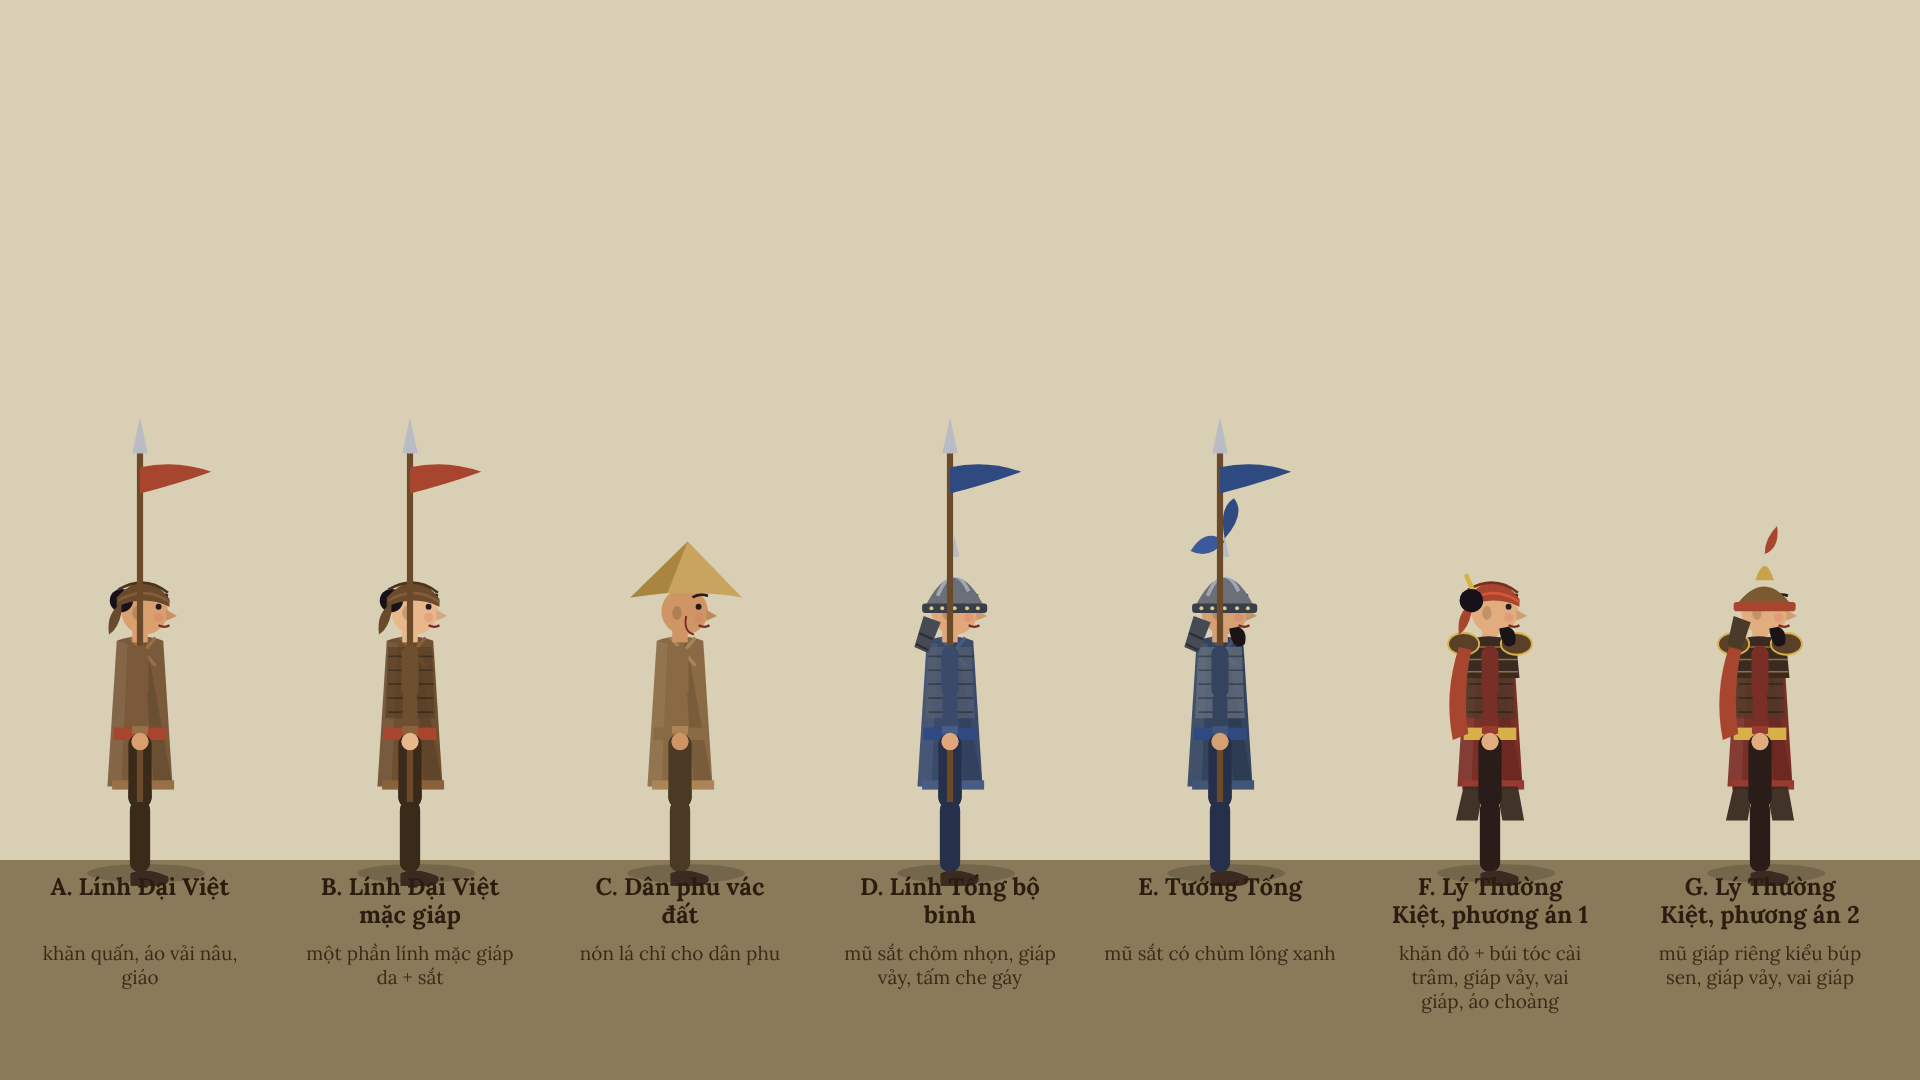
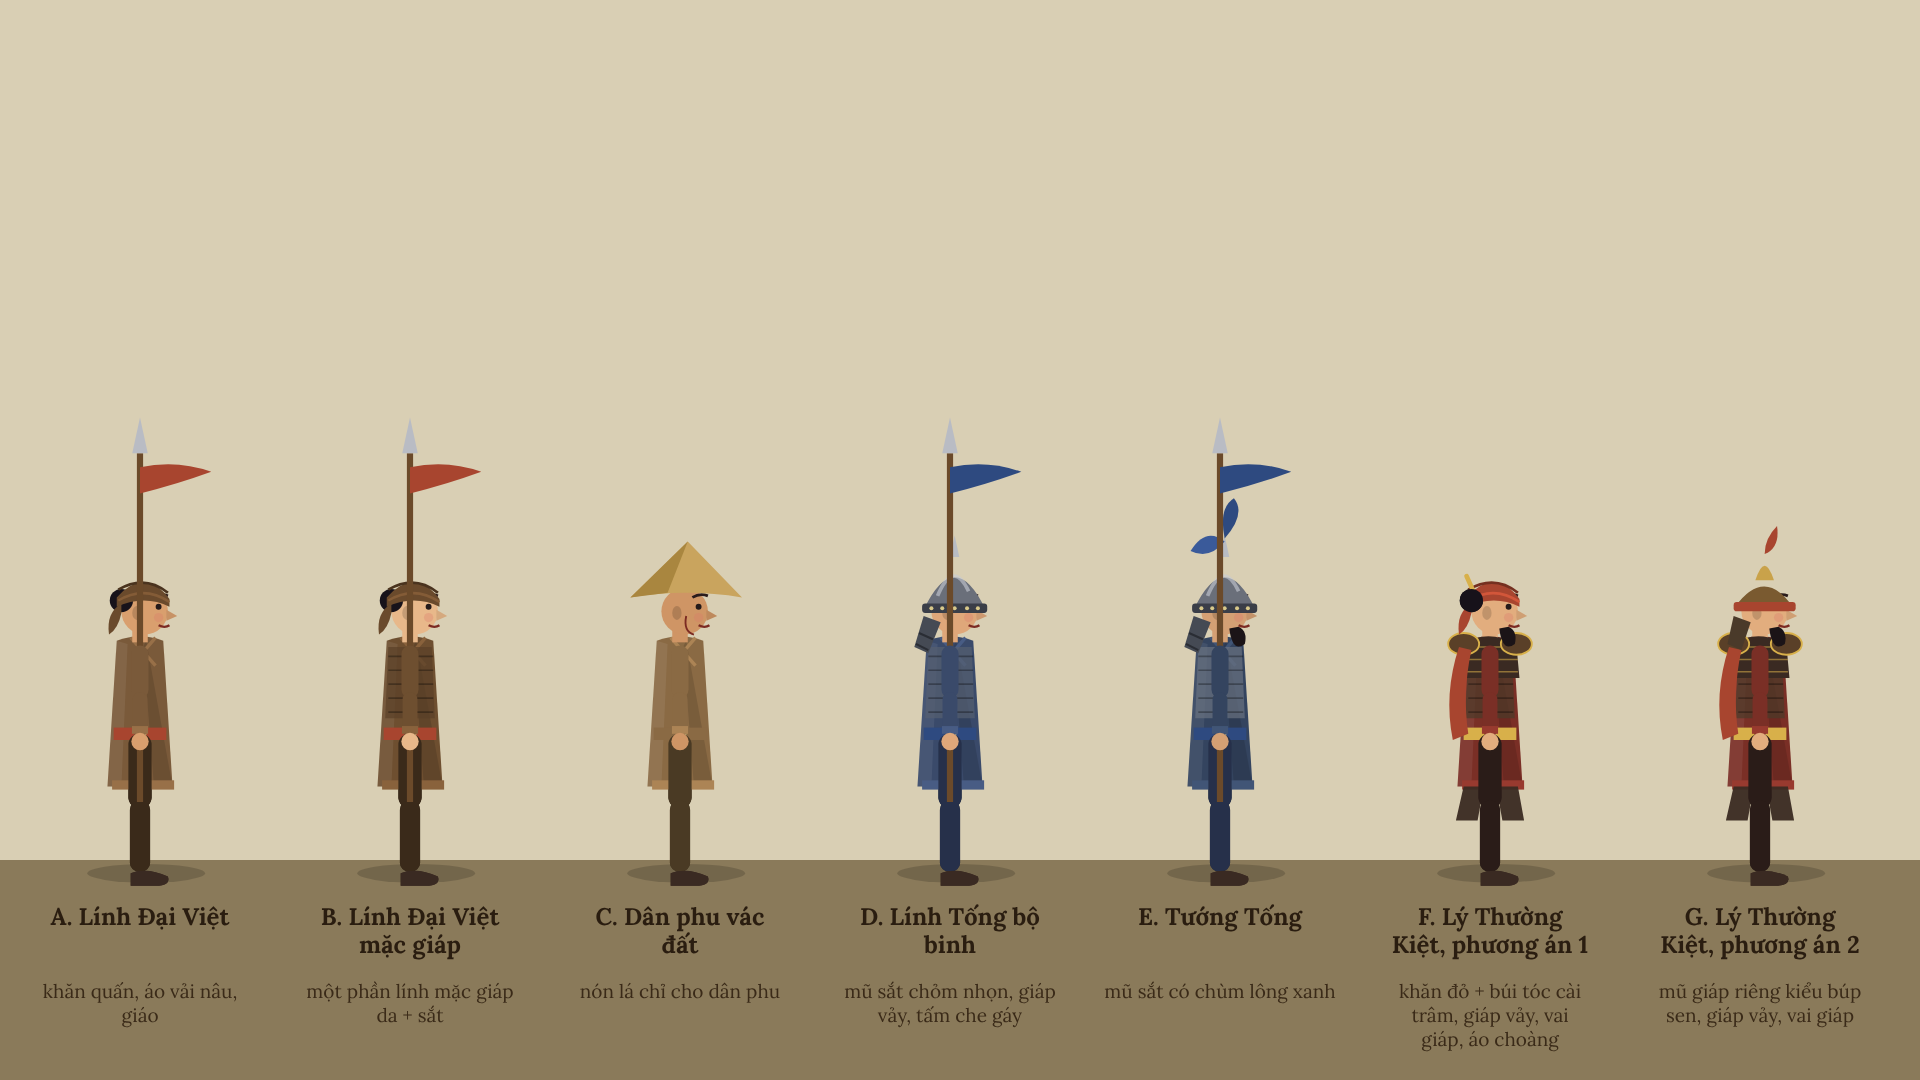
Chỉnh nhãn bảng nhân vật [skip ci]
Claude-Session: https://claude.ai/code/session_019qmx8YiPWui2GSjFMsWHvU

diff --git a/phim_ban_do/phang/bang_nhan_vat.py b/phim_ban_do/phang/bang_nhan_vat.py
@@ -21,9 +21,9 @@ for i, (name, col, kw, note) in enumerate(items):
     L.append(side_fig(f'p{i}', x, 740, 1.55, col, flip=1, **kw).replace('class="sf"', 'class="sf stat"'))
     import textwrap
     for j, ln in enumerate(textwrap.wrap(name, 17)):
-        L.append(f'<text x="{x}" y="{895+j*28}" text-anchor="middle" font-size="24" font-weight="700" fill="#2a1d10" font-family="Lora">{ln}</text>')
+        L.append(f'<text x="{x}" y="{925+j*28}" text-anchor="middle" font-size="24" font-weight="700" fill="#2a1d10" font-family="Lora">{ln}</text>')
     for j, ln in enumerate(textwrap.wrap(note, 24)):
-        L.append(f'<text x="{x}" y="{960+j*24}" text-anchor="middle" font-size="19" fill="#3a2a18" font-family="Lora">{ln}</text>')
+        L.append(f'<text x="{x}" y="{998+j*24}" text-anchor="middle" font-size="19" fill="#3a2a18" font-family="Lora">{ln}</text>')
 svg_ = f'<svg xmlns="http://www.w3.org/2000/svg" viewBox="0 0 1920 1080" width="1920" height="1080">{"".join(L)}</svg>'
 p = pathlib.Path('/tmp/bnv.svg'); p.write_text(svg_, encoding='utf-8')
 with sync_playwright() as pw:
